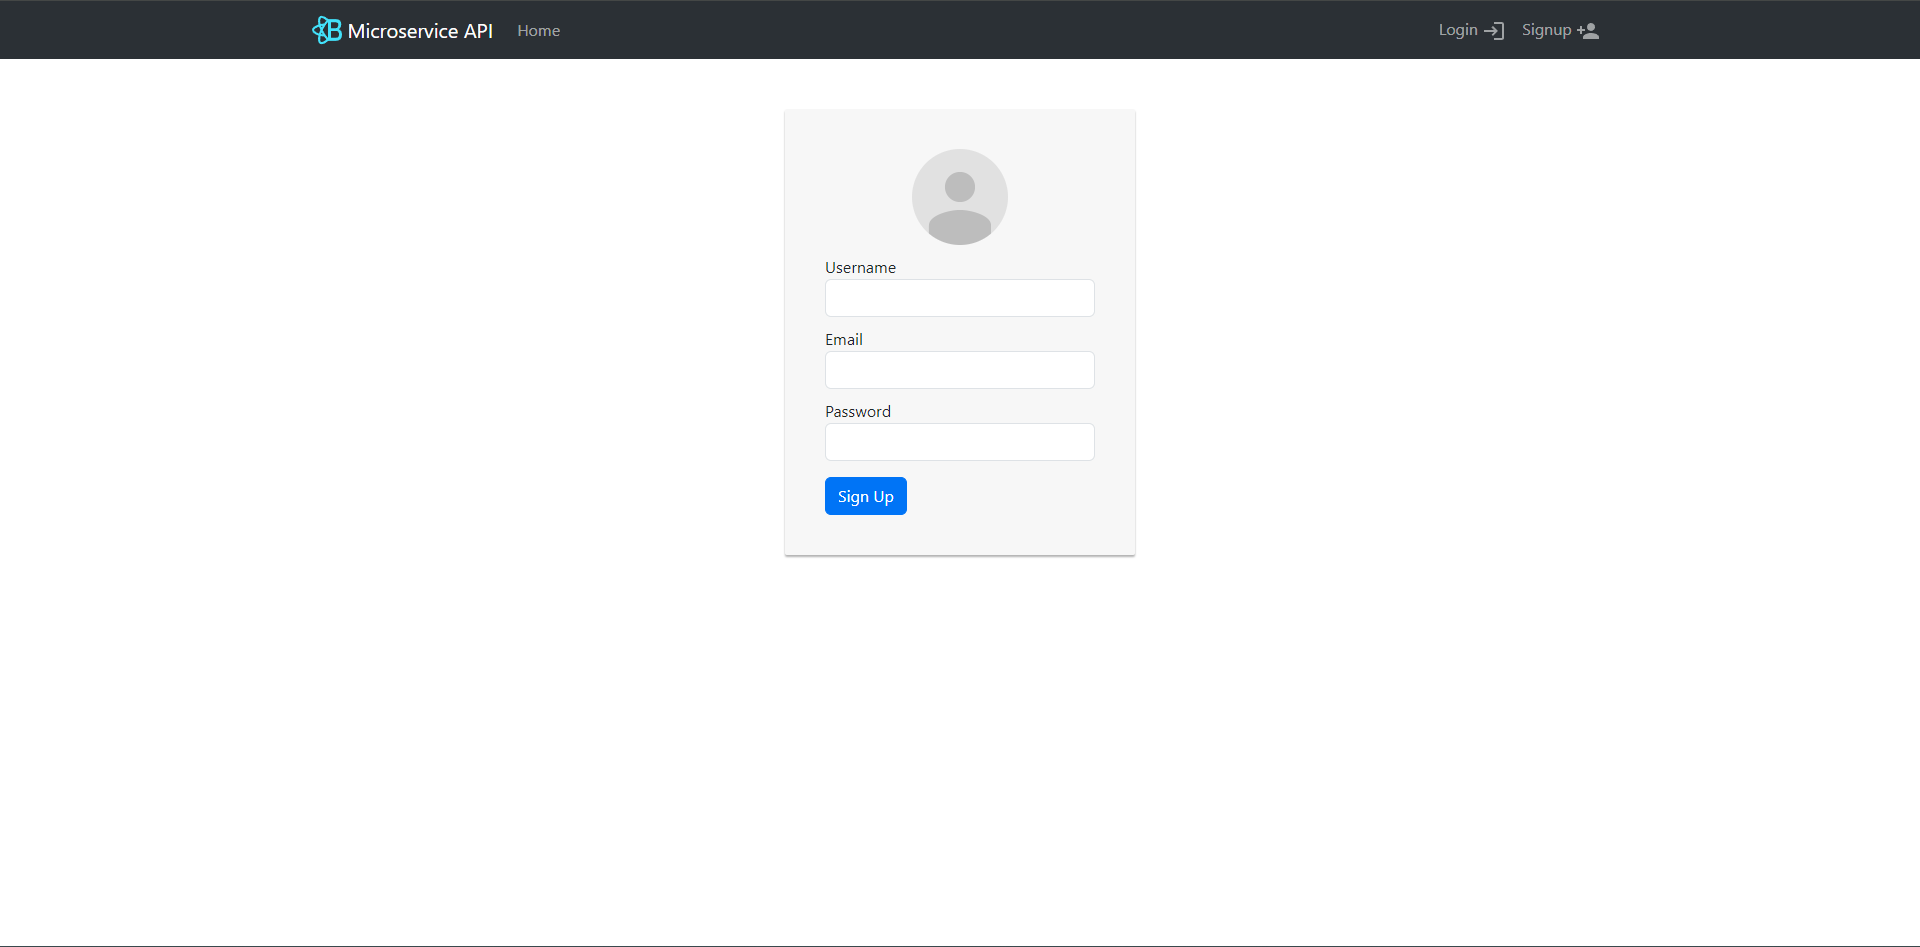
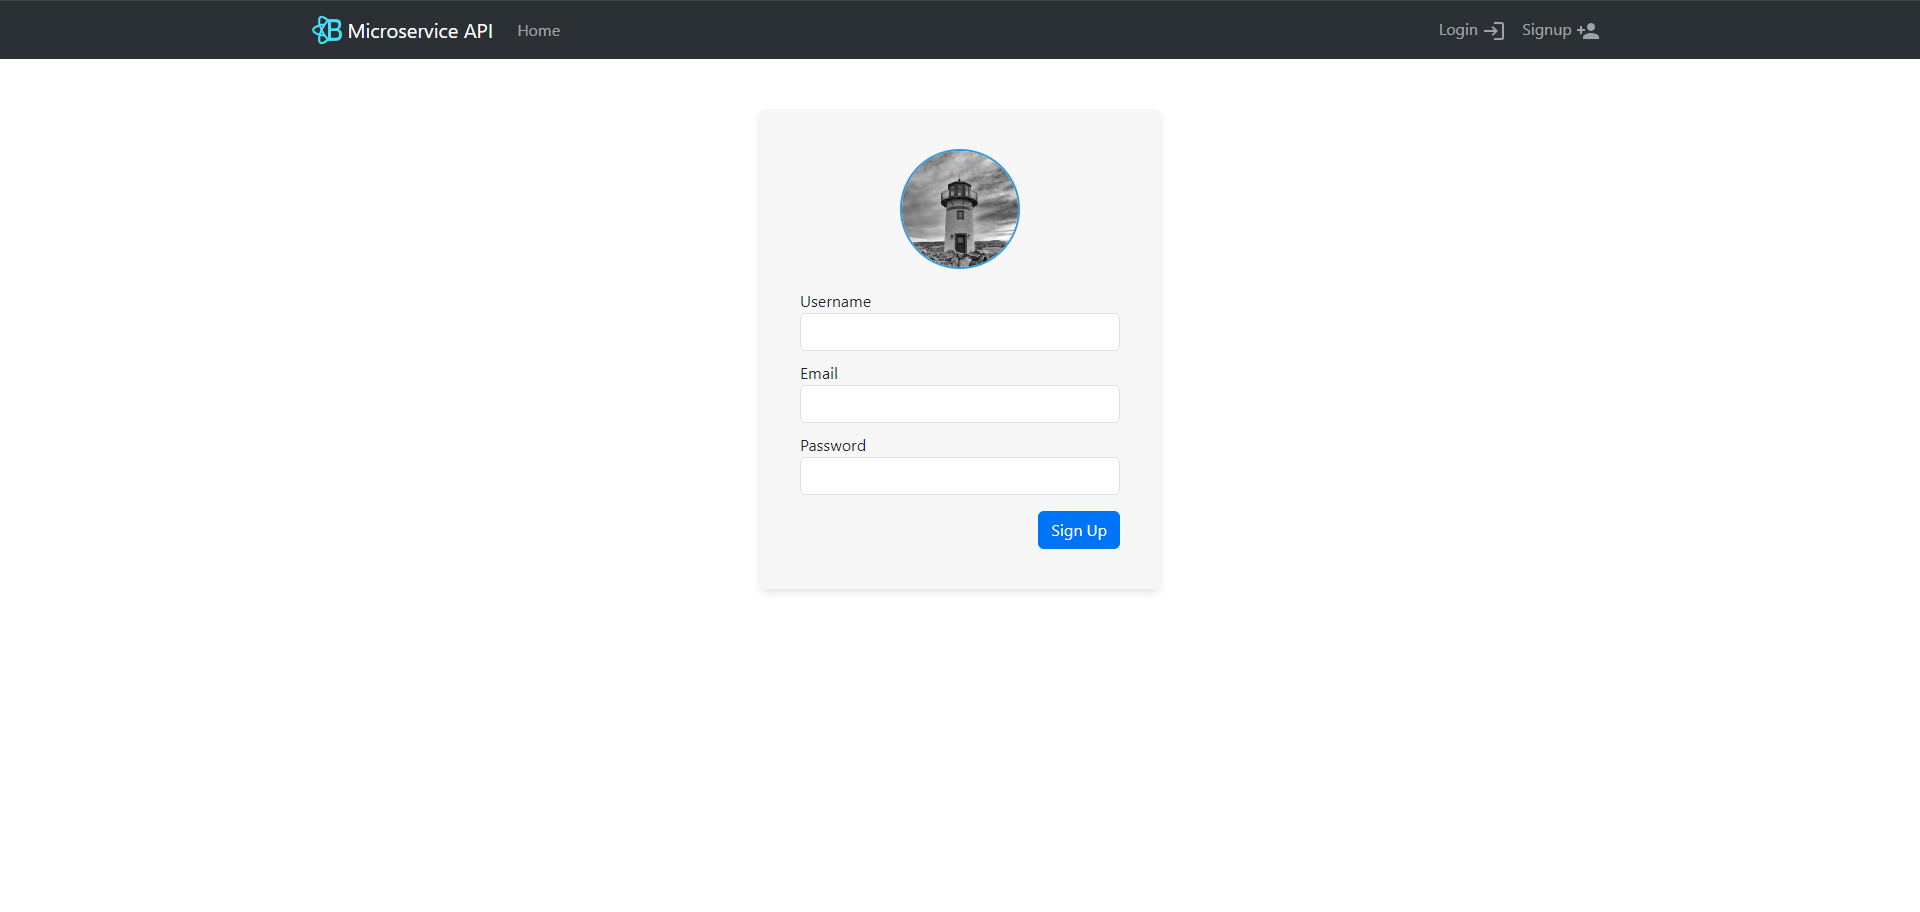
Login-signup page ui changes, profile card generates a random images

diff --git a/src/App.css b/src/App.css
@@ -4,31 +4,29 @@ label {
 }
 
 .card-container.cardLogin {
-  max-width: 350px !important;
-  padding: 40px 40px;
+  max-width: 400px;
+  margin: 50px auto;
+  padding: 40px;
+  border-radius: 8px;
+  box-shadow: 0 4px 8px rgba(0, 0, 0, 0.1);
 }
 
 .cardLogin {
   background-color: #f7f7f7;
   padding: 20px 25px 30px;
   margin: 0 auto 25px;
-  margin-top: 50px;
-  -moz-border-radius: 2px;
-  -webkit-border-radius: 2px;
-  border-radius: 2px;
-  -moz-box-shadow: 0px 2px 2px rgba(0, 0, 0, 0.3);
-  -webkit-box-shadow: 0px 2px 2px rgba(0, 0, 0, 0.3);
-  box-shadow: 0px 2px 2px rgba(0, 0, 0, 0.3);
+  border-radius: 8px;
+  box-shadow: 0 2px 4px rgba(0, 0, 0, 0.3);
 }
 
 .profile-img-card {
-  width: 96px;
-  height: 96px;
-  margin: 0 auto 10px;
+  width: 120px;
+  height: 120px;
+  margin: 0 auto 20px;
   display: block;
-  -moz-border-radius: 50%;
-  -webkit-border-radius: 50%;
   border-radius: 50%;
+  object-fit: cover; /* Ensure the image maintains its aspect ratio */
+  border: 2px solid #3498db; /* Blue border color */
 }
 
 .list {

diff --git a/src/components/RegisterComponent.js b/src/components/RegisterComponent.js
@@ -114,7 +114,7 @@ class Register extends Component {
             <div className="col-md-12">
                 <div className="cardLogin card-container">
                     <img
-                        src="//ssl.gstatic.com/accounts/ui/avatar_2x.png"
+                        src="https://picsum.photos/200"
                         alt="profile-img"
                         className="profile-img-card"
                     />
@@ -163,7 +163,7 @@ class Register extends Component {
                                     />
                                 </div>
 
-                                <div className="form-group">
+                                <div className="form-group d-flex justify-content-end">
                                     <button className="mt-3 btn btn-primary btn-block">Sign Up</button>
                                 </div>
                             </div>

diff --git a/src/components/LoginComponent.js b/src/components/LoginComponent.js
@@ -86,7 +86,7 @@ class Login extends Component {
             <div className="col-md-12">
                 <div className="cardLogin card-container">
                     <img
-                        src="//ssl.gstatic.com/accounts/ui/avatar_2x.png"
+                        src="https://picsum.photos/200"
                         alt="profile-img"
                         className="profile-img-card"
                     />
@@ -121,7 +121,7 @@ class Login extends Component {
                             />
                         </div>
 
-                        <div className="form-group">
+                        <div className="form-group d-flex justify-content-end">
                             <button
                                 className="mt-3 btn btn-primary btn-block"
                                 disabled={this.state.loading}
